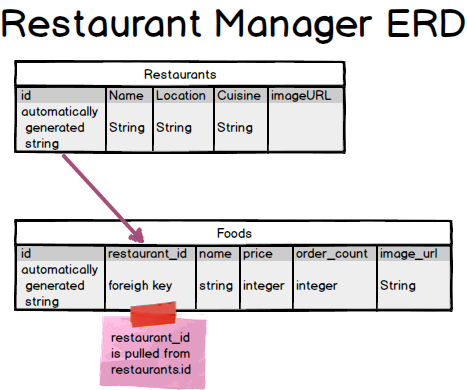
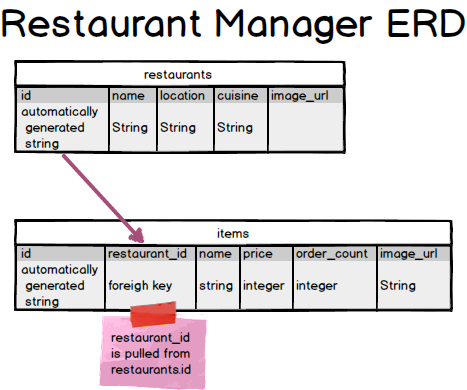
updatates to ERD img and added routes for restaurant to README

Changed region(s): [[0.2099, 0.1538, 0.5696, 0.4], [0.6595, 0.2154, 0.7195, 0.2769], [0.4497, 0.5846, 0.5396, 0.6154]]

diff --git a/README.md b/README.md
@@ -1,5 +1,12 @@
-| Testing  | This  | Table! |
+
+##Routes
+
+| Method  | Route  | Action |
 | ------------- | --------------- | ----- |
-| col 3 is      | some wordy text | $1600 |
-| col 2 is      | centered        |   $12 |
-| zebra stripes | are neat        |    $1 |
+| GET | '/' OR '/index.html' | Loads index.html |
+| GET | '/restaurants' | sends all restaurant data objects back in an array |
+| POST | '/restaurants' | adds a new restaurant object to the database, sends back the new data object that's been created |
+| GET | '/restaurants/:id' | sends one restaurant data object back that matches ':id' |
+| PUT | '/restaurants/:id' | updates every property of the existing data object that matches ':id' |
+| PATCH | '/restaurants/:id' | updates a single property of the existing data object that matches ':id' |
+| DELETE | '/restaurants/:id' | deletes an existing data object in the database that matches ':id' |
